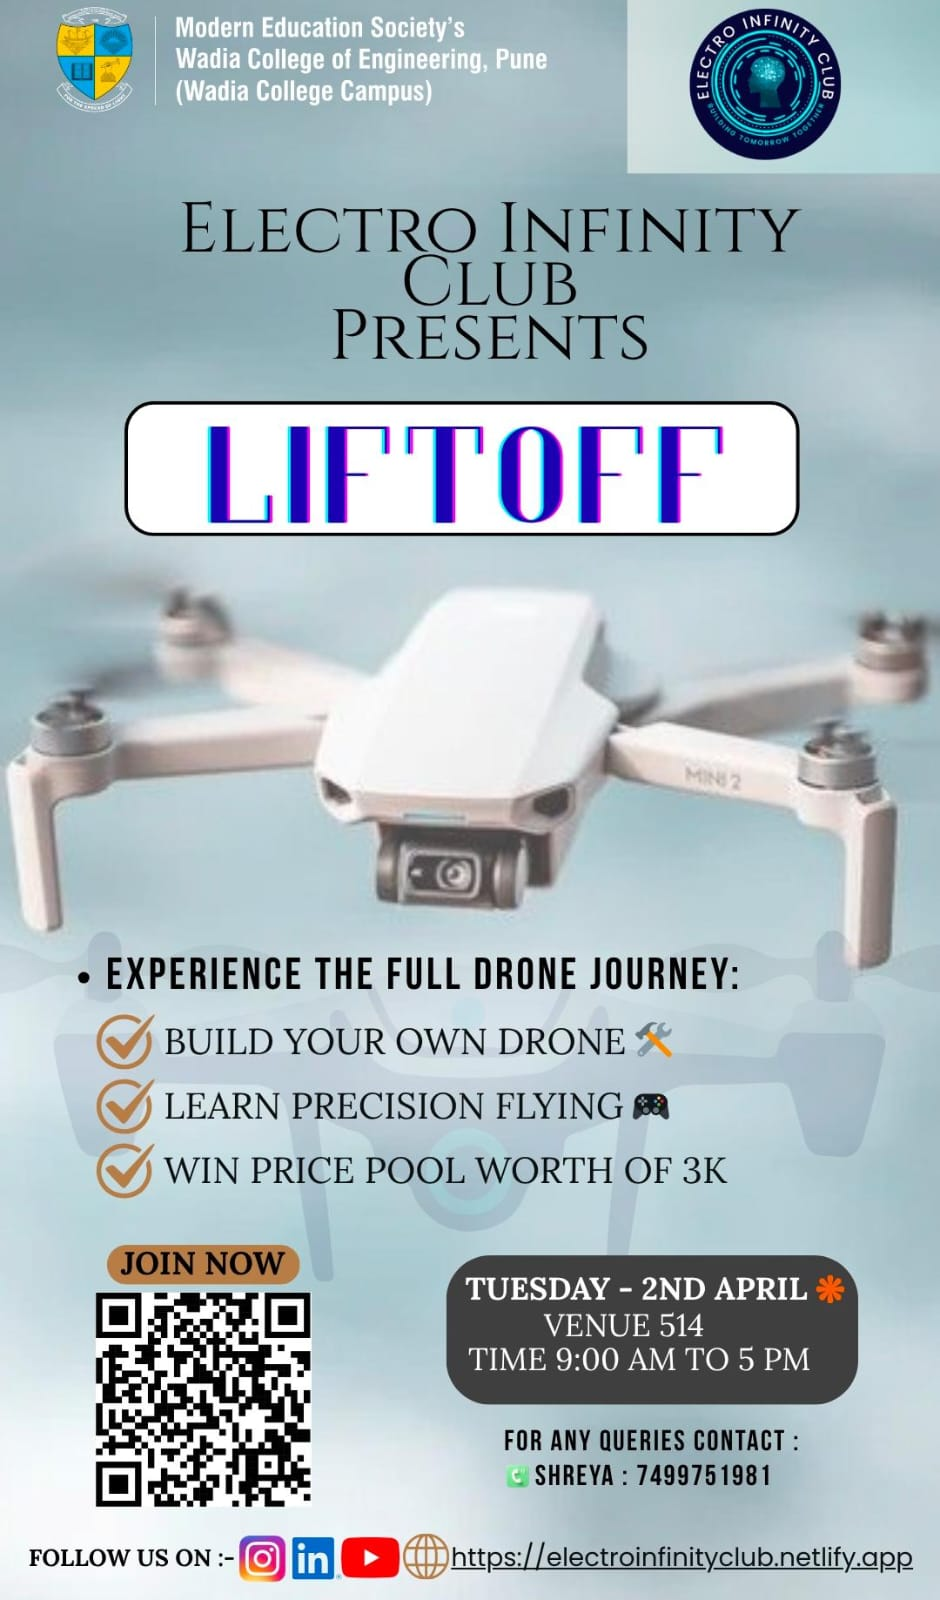
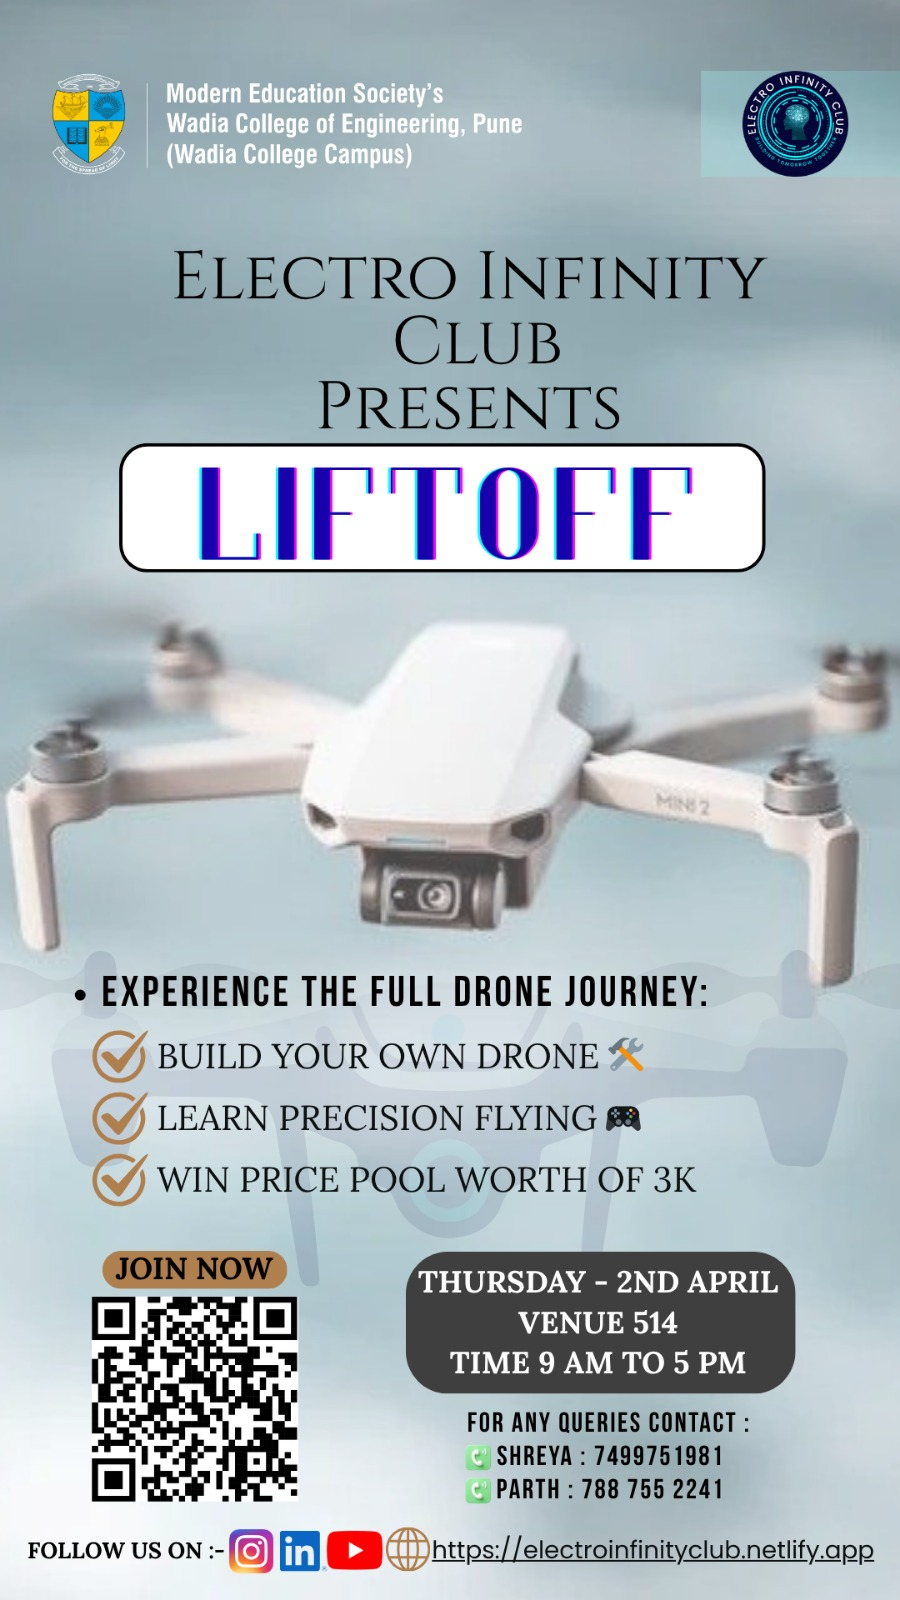
poster update

diff --git a/src/components/UpcomingEvents.tsx b/src/components/UpcomingEvents.tsx
@@ -5,7 +5,7 @@ const UpcomingEvents: React.FC = () => {
   const events = [
     {
       title: "Liftoff",
-      date: "Tuesday-2nd April",
+      date: "Thursday-2nd April",
       image: "/event-images/event-22.jpg",
       footnote: "Registrations are open. Limited seats available!", // 👈 edit this anytime
     },
